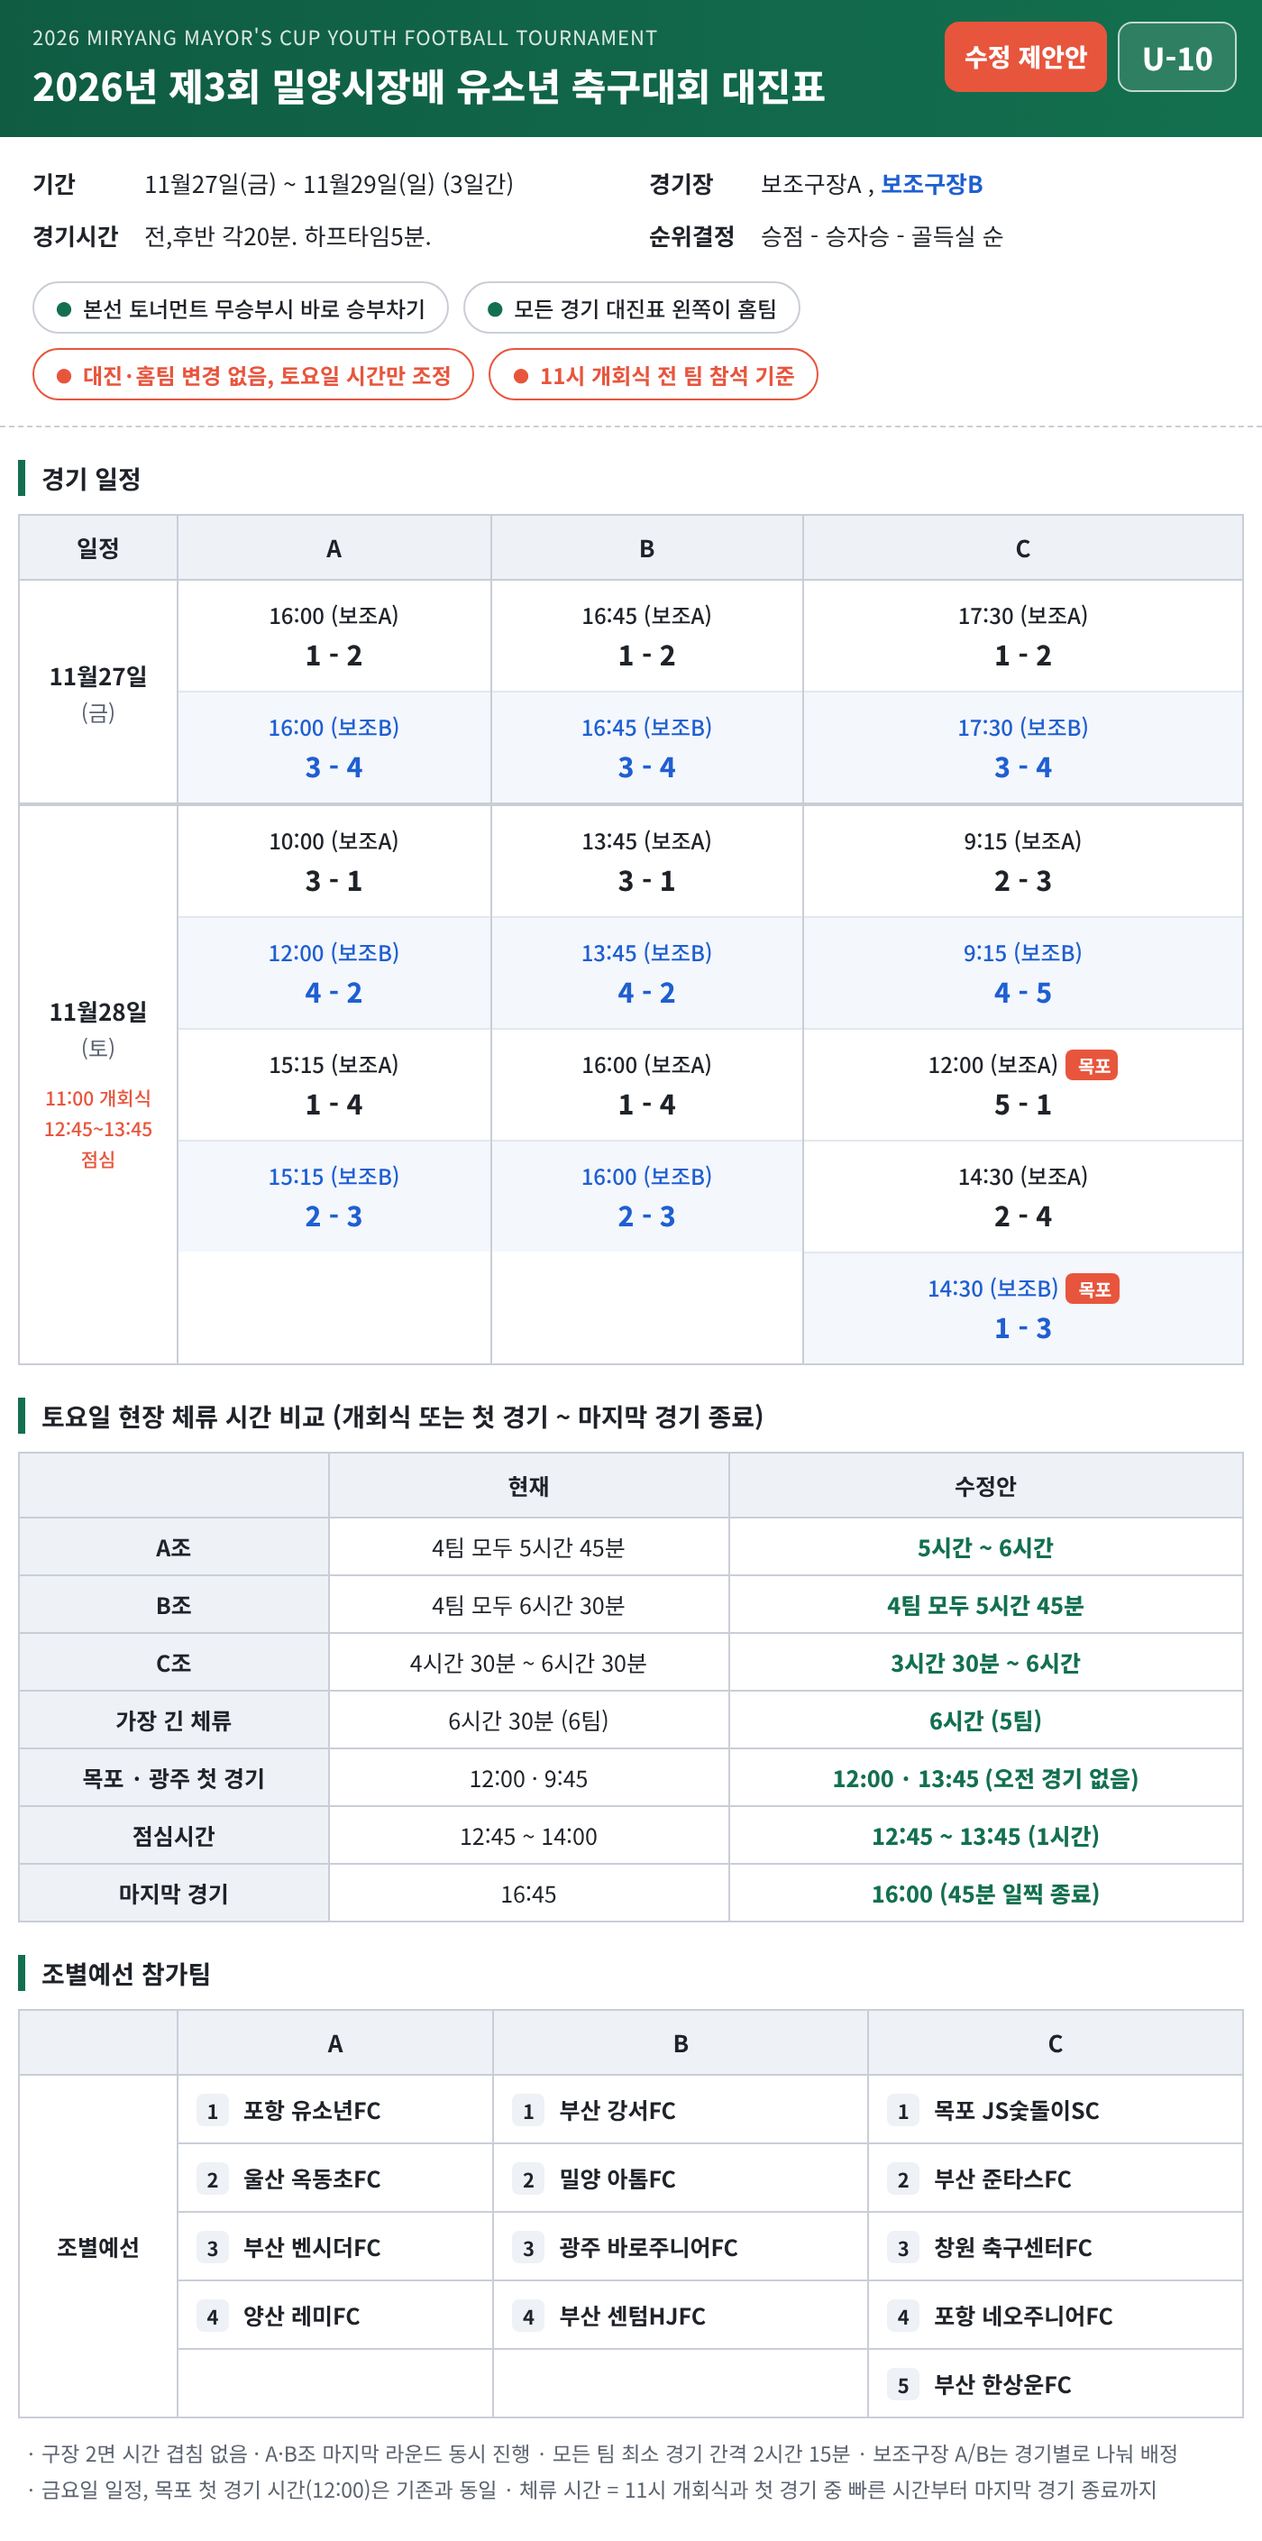
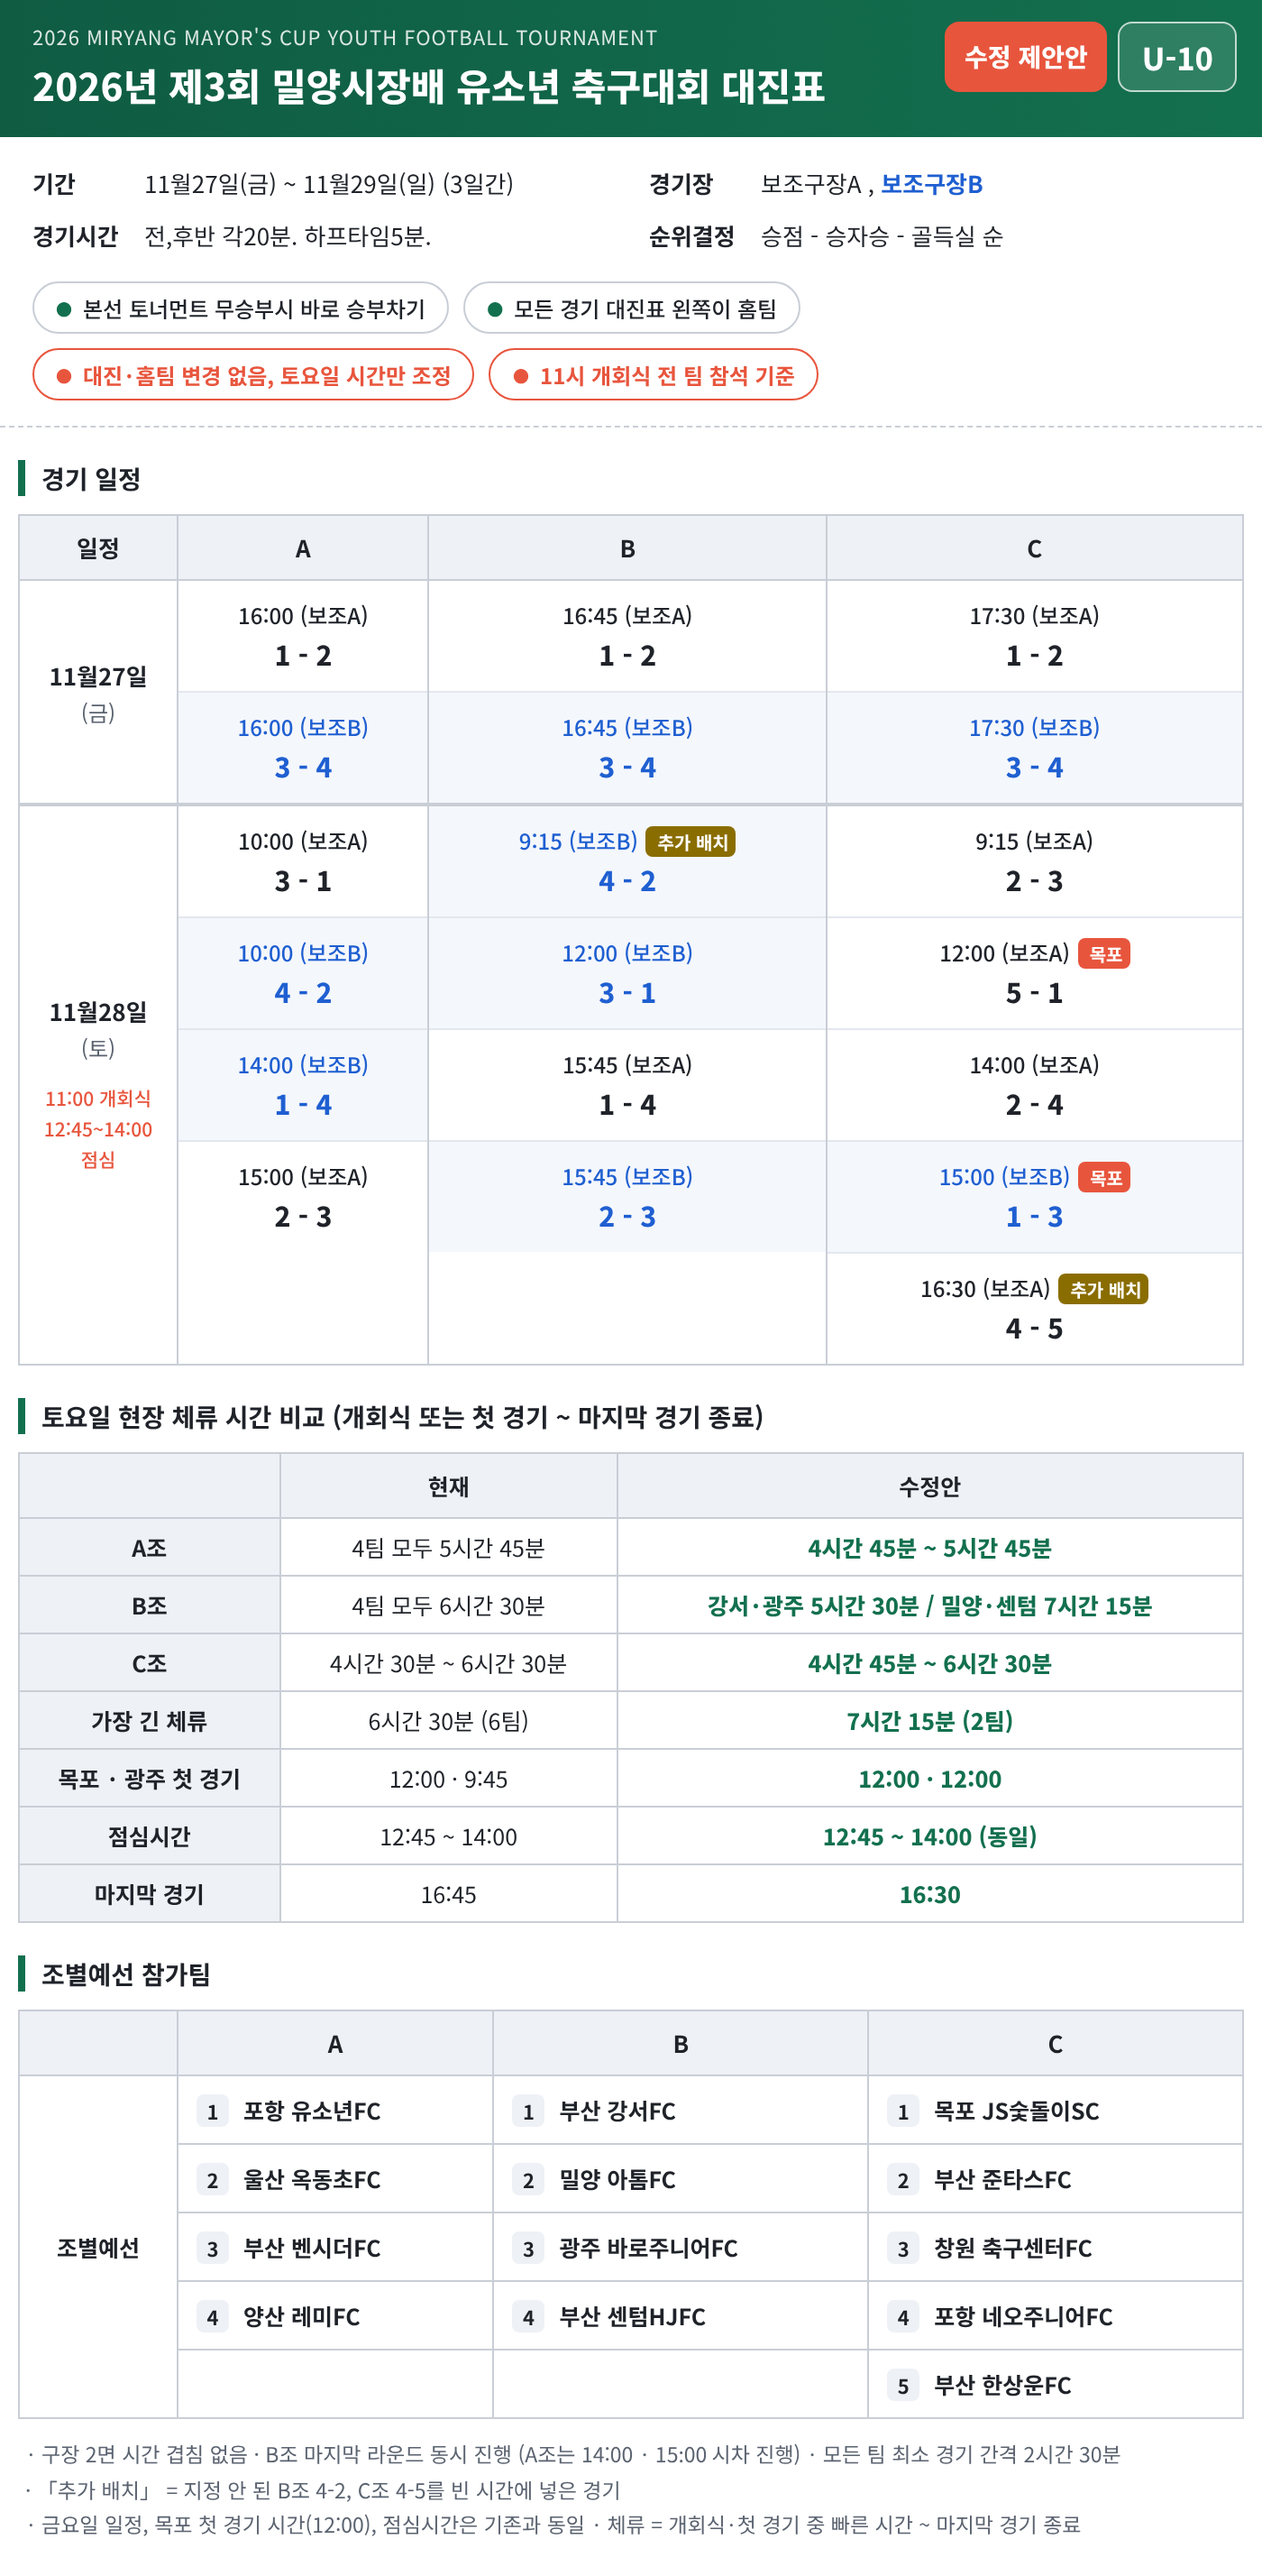
Apply requested Saturday slot changes to proposed schedule
Claude-Session: https://claude.ai/code/session_01PvWX4VaDScZmFjzGSQV6oC

diff --git a/schedule/schedule.html b/schedule/schedule.html
@@ -50,6 +50,7 @@
   .cmp td.new{color:var(--green2);font-weight:800}
   .notes{font-size:11.5px;color:var(--muted);padding:10px 14px 18px;line-height:1.7}
   .stack{display:flex;flex-direction:column}
+  .g.ad .tm:after{content:" 추가 배치";font-size:10px;font-weight:700;color:#fff;background:#8a6d00;border-radius:4px;padding:1px 4px;margin-left:4px}
 </style>
 </head>
 <body>
@@ -94,25 +95,25 @@
       </tr>
       <tr class="sep">
         <td class="date">11월28일<small>(토)</small>
-          <span class="ev">11:00 개회식<br>12:45~13:45<br>점심</span></td>
+          <span class="ev">11:00 개회식<br>12:45~14:00<br>점심</span></td>
         <td class="col"><div class="stack">
           <div class="g"><div class="tm">10:00 (보조A)</div><div class="sc">3 - 1</div></div>
-          <div class="g b"><div class="tm">12:00 (보조B)</div><div class="sc">4 - 2</div></div>
-          <div class="g"><div class="tm">15:15 (보조A)</div><div class="sc">1 - 4</div></div>
-          <div class="g b"><div class="tm">15:15 (보조B)</div><div class="sc">2 - 3</div></div>
+          <div class="g b"><div class="tm">10:00 (보조B)</div><div class="sc">4 - 2</div></div>
+          <div class="g b"><div class="tm">14:00 (보조B)</div><div class="sc">1 - 4</div></div>
+          <div class="g"><div class="tm">15:00 (보조A)</div><div class="sc">2 - 3</div></div>
         </div></td>
         <td class="col"><div class="stack">
-          <div class="g"><div class="tm">13:45 (보조A)</div><div class="sc">3 - 1</div></div>
-          <div class="g b"><div class="tm">13:45 (보조B)</div><div class="sc">4 - 2</div></div>
-          <div class="g"><div class="tm">16:00 (보조A)</div><div class="sc">1 - 4</div></div>
-          <div class="g b"><div class="tm">16:00 (보조B)</div><div class="sc">2 - 3</div></div>
+          <div class="g b ad"><div class="tm">9:15 (보조B)</div><div class="sc">4 - 2</div></div>
+          <div class="g b"><div class="tm">12:00 (보조B)</div><div class="sc">3 - 1</div></div>
+          <div class="g"><div class="tm">15:45 (보조A)</div><div class="sc">1 - 4</div></div>
+          <div class="g b"><div class="tm">15:45 (보조B)</div><div class="sc">2 - 3</div></div>
         </div></td>
         <td class="col"><div class="stack">
           <div class="g"><div class="tm">9:15 (보조A)</div><div class="sc">2 - 3</div></div>
-          <div class="g b"><div class="tm">9:15 (보조B)</div><div class="sc">4 - 5</div></div>
           <div class="g mk"><div class="tm">12:00 (보조A)</div><div class="sc">5 - 1</div></div>
-          <div class="g"><div class="tm">14:30 (보조A)</div><div class="sc">2 - 4</div></div>
-          <div class="g b mk"><div class="tm">14:30 (보조B)</div><div class="sc">1 - 3</div></div>
+          <div class="g"><div class="tm">14:00 (보조A)</div><div class="sc">2 - 4</div></div>
+          <div class="g b mk"><div class="tm">15:00 (보조B)</div><div class="sc">1 - 3</div></div>
+          <div class="g ad"><div class="tm">16:30 (보조A)</div><div class="sc">4 - 5</div></div>
         </div></td>
       </tr>
     </tbody>
@@ -122,13 +123,13 @@
   <table class="cmp">
     <thead><tr><th></th><th>현재</th><th>수정안</th></tr></thead>
     <tbody>
-      <tr><td class="k">A조</td><td>4팀 모두 5시간 45분</td><td class="new">5시간 ~ 6시간</td></tr>
-      <tr><td class="k">B조</td><td>4팀 모두 6시간 30분</td><td class="new">4팀 모두 5시간 45분</td></tr>
-      <tr><td class="k">C조</td><td>4시간 30분 ~ 6시간 30분</td><td class="new">3시간 30분 ~ 6시간</td></tr>
-      <tr><td class="k">가장 긴 체류</td><td>6시간 30분 (6팀)</td><td class="new">6시간 (5팀)</td></tr>
-      <tr><td class="k">목포 · 광주 첫 경기</td><td>12:00 · 9:45</td><td class="new">12:00 · 13:45 (오전 경기 없음)</td></tr>
-      <tr><td class="k">점심시간</td><td>12:45 ~ 14:00</td><td class="new">12:45 ~ 13:45 (1시간)</td></tr>
-      <tr><td class="k">마지막 경기</td><td>16:45</td><td class="new">16:00 (45분 일찍 종료)</td></tr>
+      <tr><td class="k">A조</td><td>4팀 모두 5시간 45분</td><td class="new">4시간 45분 ~ 5시간 45분</td></tr>
+      <tr><td class="k">B조</td><td>4팀 모두 6시간 30분</td><td class="new">강서·광주 5시간 30분 / 밀양·센텀 7시간 15분</td></tr>
+      <tr><td class="k">C조</td><td>4시간 30분 ~ 6시간 30분</td><td class="new">4시간 45분 ~ 6시간 30분</td></tr>
+      <tr><td class="k">가장 긴 체류</td><td>6시간 30분 (6팀)</td><td class="new">7시간 15분 (2팀)</td></tr>
+      <tr><td class="k">목포 · 광주 첫 경기</td><td>12:00 · 9:45</td><td class="new">12:00 · 12:00</td></tr>
+      <tr><td class="k">점심시간</td><td>12:45 ~ 14:00</td><td class="new">12:45 ~ 14:00 (동일)</td></tr>
+      <tr><td class="k">마지막 경기</td><td>16:45</td><td class="new">16:30</td></tr>
     </tbody>
   </table>
 
@@ -145,8 +146,9 @@
     </tbody>
   </table>
   <div class="notes">
-    · 구장 2면 시간 겹침 없음 · A·B조 마지막 라운드 동시 진행 · 모든 팀 최소 경기 간격 2시간 15분 · 보조구장 A/B는 경기별로 나눠 배정<br>
-    · 금요일 일정, 목포 첫 경기 시간(12:00)은 기존과 동일 · 체류 시간 = 11시 개회식과 첫 경기 중 빠른 시간부터 마지막 경기 종료까지
+    · 구장 2면 시간 겹침 없음 · B조 마지막 라운드 동시 진행 (A조는 14:00 · 15:00 시차 진행) · 모든 팀 최소 경기 간격 2시간 30분<br>
+    · 「추가 배치」 = 지정 안 된 B조 4-2, C조 4-5를 빈 시간에 넣은 경기<br>
+    · 금요일 일정, 목포 첫 경기 시간(12:00), 점심시간은 기존과 동일 · 체류 = 개회식·첫 경기 중 빠른 시간 ~ 마지막 경기 종료
   </div>
 </div>
 </body>
